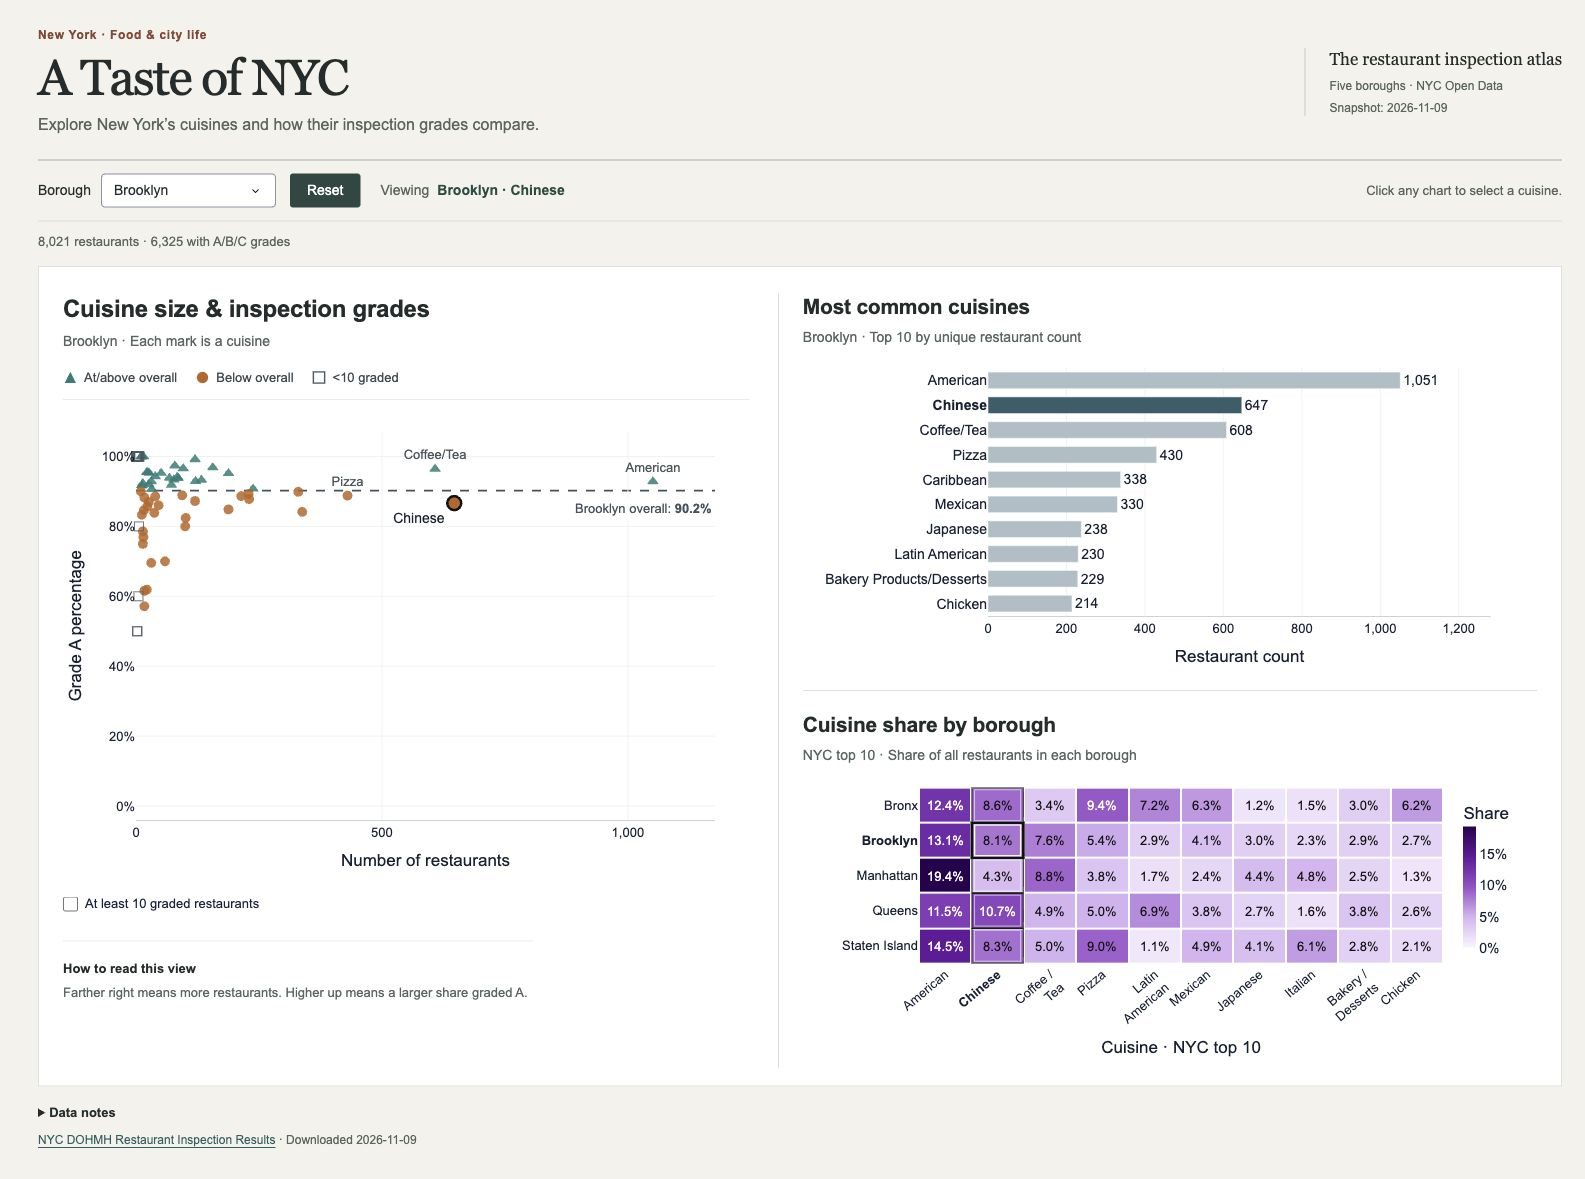
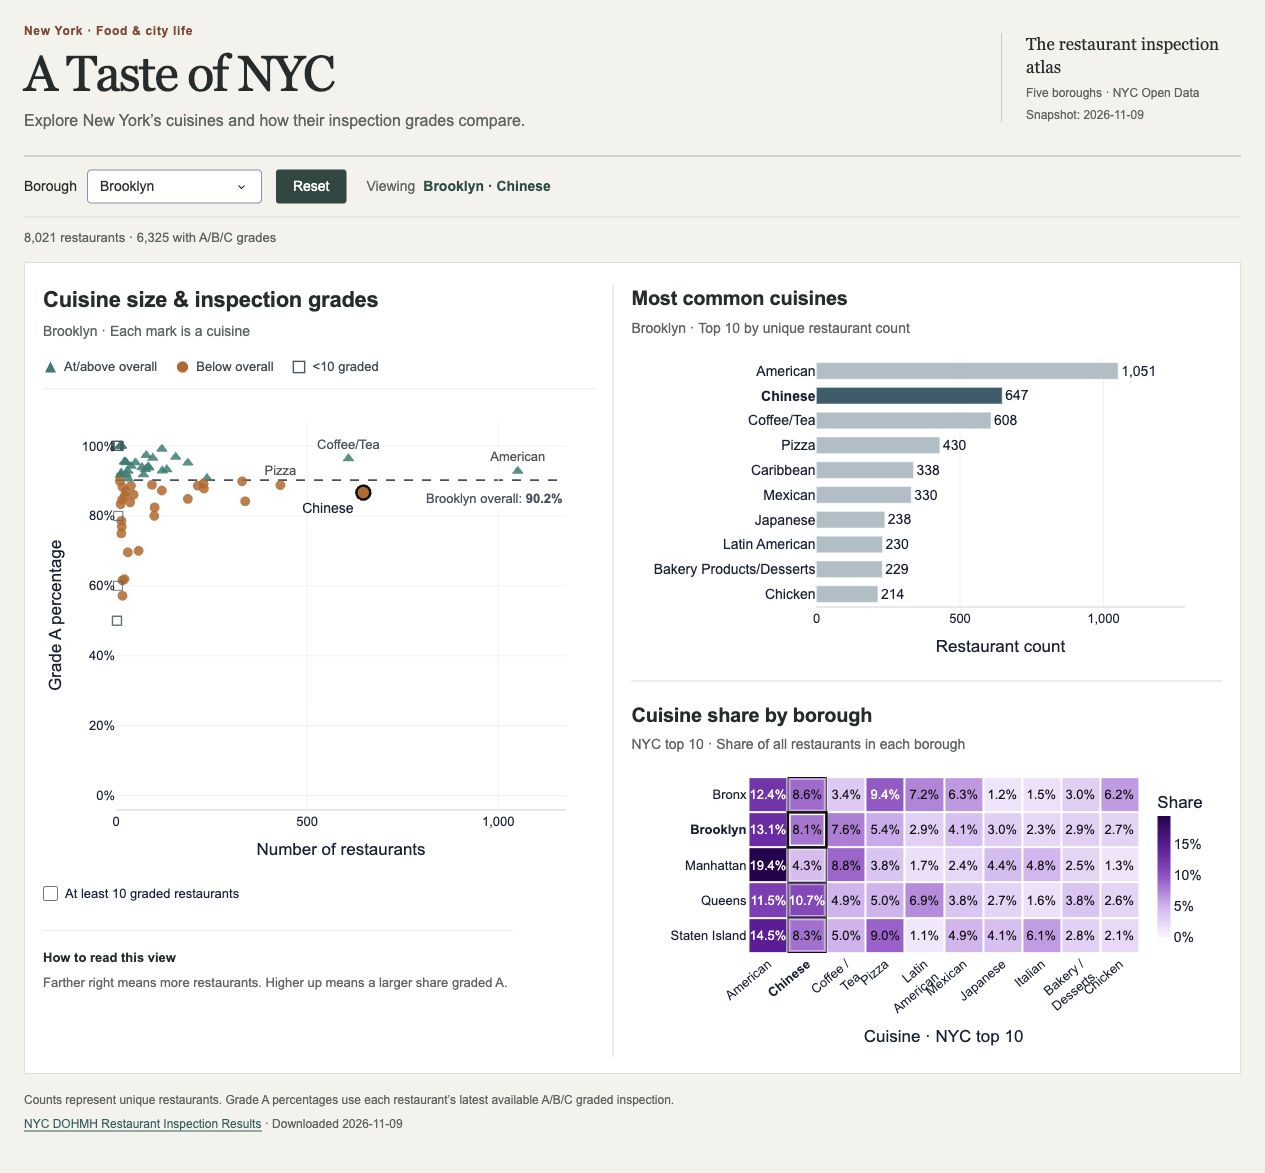
Remove Data notes panel and keep concise footer

diff --git a/a-taste-of-nyc/assets/style.css b/a-taste-of-nyc/assets/style.css
@@ -15,7 +15,7 @@ h1 { font-family: Georgia, serif; font-size: 50px; font-weight: 500; letter-spac
 #borough { width: 175px; font-size: 14px; }
 button { background: #2c4742; color: #fff; border: 1px solid #2c4742; border-radius: 3px; padding: 8px 16px; font-size: 14px; font-weight: 400; cursor: pointer; }
 button:hover { background: #1b342f; }
-button:focus-visible, a:focus-visible, summary:focus-visible { outline: 2px solid var(--accent); outline-offset: 3px; }
+button:focus-visible, a:focus-visible { outline: 2px solid var(--accent); outline-offset: 3px; }
 .selection { display: flex; align-items: baseline; gap: 8px; margin-left: 6px; font-size: 14px; }
 .selection-label { color: var(--muted); }
 .selection strong { color: #204c43; font-weight: 600; }
@@ -36,10 +36,8 @@ h2 { margin: 0; font-size: 21px; line-height: 1.3; font-weight: 600; letter-spac
 .sample-controls input { accent-color: var(--accent); width: 15px; height: 15px; margin: 0; }
 #sample-status { color: var(--muted); font-size: 12px; }
 #sample-status:empty { display: none; }
-.data-notes { padding-top: 16px; font-size: 13px; color: var(--muted); line-height: 1.6; }
-.data-notes summary { cursor: pointer; color: var(--ink); width: fit-content; font-weight: 600; }
-.data-notes p { margin: 8px 0; max-width: 1050px; }
-footer { margin-top: 10px; color: var(--muted); font-size: 12px; }
+footer { margin-top: 16px; line-height: 1.6; color: var(--muted); font-size: 12px; }
+footer p { margin: 0 0 5px; }
 a { color: var(--accent); text-underline-offset: 3px; }
 @media (max-width: 1400px) { .page { padding: 24px; } .hint { display: none; } .chart-grid { padding: 22px 18px 16px; gap: 18px; } .right-column { padding-left: 18px; } .scatter-panel h2 { font-size: 22px; } h2 { font-size: 20px; } .edition { max-width: 240px; } }
 @media (max-width: 1150px) { .chart-grid { grid-template-columns: 1fr; gap: 30px; } .right-column { border-left: 0; padding-left: 0; gap: 26px; } .scatter-plot { height: 420px !important; } .reading-note { max-width: none; } }

diff --git a/a-taste-of-nyc/app.py b/a-taste-of-nyc/app.py
@@ -327,19 +327,11 @@ def create_app(frame=None, metadata=None):
                 ], className="panel"),
             ], className="right-column"),
         ], className="chart-grid"),
-        html.Details([
-            html.Summary("Data notes"),
-            html.P(id="missing-note"),
-            html.P("Triangle and circle marks have at least 10 A/B/C-rated restaurants. Hollow squares have 1–9; their exact Grade A rates remain in their vertical positions and tooltips."),
+        html.Footer([
             html.P("Counts represent unique restaurants. Grade A percentages use each restaurant’s latest available A/B/C graded inspection."),
-            html.P("Overall Grade A = all Grade A restaurants / all A/B/C-rated restaurants in the selected scope; it is not an average of cuisine percentages. The reference and both color groups update with the borough."),
-            html.P("Cuisine not recorded is excluded from the cuisine comparisons but included in total counts and heatmap denominators. Heatmap columns are the NYC top 10 recorded cuisines, plus the selected cuisine if needed; all five boroughs and the citywide color scale remain fixed."),
-            html.P(id="scatter-note"),
-            html.P("Small samples may have extreme percentages. Above/below overall is descriptive, not a significance test. The X axis remains linear. A black outline and label identify the selected scatter point without changing its comparison color."),
-            html.P("Source includes active establishments and not-yet-inspected applicants. It is not an all-time census."),
-        ], className="data-notes"),
-        html.Footer([html.A("NYC DOHMH Restaurant Inspection Results", href=SOURCE_URL, target="_blank", rel="noreferrer"),
-                     f" · Downloaded {metadata.get('download_date', 'unknown')}"]),
+            html.A("NYC DOHMH Restaurant Inspection Results", href=SOURCE_URL, target="_blank", rel="noreferrer"),
+            f" · Downloaded {metadata.get('download_date', 'unknown')}",
+        ]),
     ], className="page")
 
     @app.callback(
@@ -347,8 +339,8 @@ def create_app(frame=None, metadata=None):
         Output("heatmap", "clickData"), Output("scatter", "figure"), Output("bar", "figure"),
         Output("selection", "children"), Output("metrics", "children"),
         Output("scatter-scope", "children"), Output("bar-scope", "children"),
-        Output("bar-title", "children"), Output("scatter-note", "children"),
-        Output("heatmap", "figure"), Output("missing-note", "children"),
+        Output("bar-title", "children"),
+        Output("heatmap", "figure"),
         Output("bar", "clickData"), Output("scatter", "clickData"),
         Output("sample-filter", "value"), Output("sample-status", "children"), Output("heatmap-title", "children"),
         Input("borough", "value"), Input("heatmap", "clickData"), Input("reset", "n_clicks"),
@@ -366,10 +358,7 @@ def create_app(frame=None, metadata=None):
         bar, extra = bar_figure(summary, selected, borough)
         rated = int(subset.grade.isin(["A", "B", "C"]).sum())
         metrics = f"{len(subset):,} restaurants · {rated:,} with A/B/C grades"
-        unknown = int(subset.cuisine.eq(MISSING_CUISINE).sum())
-        missing_note = f"Cuisine not recorded: {unknown:,} in {borough}. Included in totals and share denominators; excluded from cuisine comparisons."
         omitted = int((summary.rated.eq(0) & summary.cuisine.ne(MISSING_CUISINE)).sum())
-        note = f"{omitted} recorded cuisine(s) have no valid grade and are not plotted in scatter. Counts still include them. The optional minimum-sample filter affects only scatter visibility, not totals or the overall benchmark."
         hidden = int(((summary.rated > 0) & (summary.rated < minimum) & summary.cuisine.ne(MISSING_CUISINE)).sum())
         sample_status = f"{hidden} cuisines hidden by sample filter" if minimum > 1 else ""
         if omitted:
@@ -377,10 +366,8 @@ def create_app(frame=None, metadata=None):
         if selected:
             row = summary[summary.cuisine.eq(selected)]
             if row.empty:
-                note = f"{selected}: 0 restaurants; Grade A: no data. " + note
                 sample_status += (" · " if sample_status else "") + f"{selected}: no restaurants in this borough"
             elif int(row.iloc[0].rated) == 0:
-                note = f"{selected}: Grade A unavailable (0 rated restaurants). " + note
                 sample_status += (" · " if sample_status else "") + f"{selected}: no valid grade"
             elif int(row.iloc[0].rated) < minimum:
                 sample_status += f" · {selected} is hidden ({int(row.iloc[0].rated)} graded); turn off the filter to see it"
@@ -388,8 +375,8 @@ def create_app(frame=None, metadata=None):
                 f"{borough} · {selected or 'All cuisines'}", metrics,
                 f"{borough} · Each mark is a cuisine",
                 f"{borough} · Top 10 by unique restaurant count",
-                "Most common cuisines" + (" · + selected" if extra else ""), note,
-                heatmap_figure(frame, borough, selected)[0], missing_note,
+                "Most common cuisines" + (" · + selected" if extra else ""),
+                heatmap_figure(frame, borough, selected)[0],
                 None, None, sample_filter, sample_status,
                 "Cuisine share by borough" + (" · + selected" if selected and selected not in heat_cuisines else ""))
 

diff --git a/a-taste-of-nyc/check_browser.py b/a-taste-of-nyc/check_browser.py
@@ -59,7 +59,6 @@ def run():
         page.wait_for_function("""() => document.querySelector('#scatter .js-plotly-plot').data.some(t => t.text?.includes('Chinese') && t.marker.line.color === '#111111')""")
         assert page.locator("#bar .js-plotly-plot").evaluate("g => g.data[0].marker.color.includes('#355e6a')")
         assert page.locator("#heatmap .js-plotly-plot").evaluate("g => g.layout.shapes.length === 10")
-        expect(page.locator("#missing-note")).to_contain_text("992")
         expect(page.locator("#scatter")).to_contain_text("Brooklyn overall: 90.2%")
         selected = page.locator("#scatter .scatterlayer .trace").last.locator(".point").first
         bounds = selected.bounding_box()

diff --git a/a-taste-of-nyc/README.md b/a-taste-of-nyc/README.md
@@ -70,7 +70,7 @@ The November 9 snapshot was checked directly against every available source row 
 - **3,922 unique restaurants** have no recorded cuisine, including **992 in Brooklyn**.
 - These IDs have **4,000 source rows**. **Zero** of those restaurant IDs have any nonblank cuisine in any available inspection record. The missing values were not introduced by mapping or the grade join, and there is no usable older cuisine to recover.
 - None has a valid A/B/C grade. **3,920 source rows** carry the source's `1900-01-01` not-yet-inspected marker; this count is rows, not restaurants.
-- They remain in total restaurant counts and heatmap denominators, but are excluded from cuisine comparisons and Top 10 selection. An expandable Data notes section states their count for the current borough and the denominator policy. The cleaned data is retained intact.
+- They remain in total restaurant counts and heatmap denominators, but are excluded from cuisine comparisons and Top 10 selection. The missing-cuisine counts and denominator policy are documented here; the page keeps only a short metric definition in its footer. The cleaned data is retained intact.
 
 The saved audit is [data/cuisine_missingness_audit.json](data/cuisine_missingness_audit.json). `test_missing_cuisine_really_missing_in_all_source_records` repeats the key raw-source check. Brooklyn's reference rate is **5,707 Grade A / 6,325 A/B/C-rated = 90.229249…%**, displayed as **90.2%**. It is not the unweighted average of cuisine rates.
 
@@ -93,7 +93,7 @@ The saved audit is [data/cuisine_missingness_audit.json](data/cuisine_missingnes
 
 These refinements retain Option B and the original chart types and axes. The added reference line and binary comparison colors strengthen RQ3. No logarithmic axis or arbitrary cuisine palette was introduced. The selected scatter point is labeled, with up to three common cuisines labeled where approximate text-box checks find room. The chart numbering was removed; the original research-question mapping remains RQ3 / RQ1 / RQ2.
 
-The editorial revision uses a warm off-white page, a 50 px serif desktop title (40 px on phones), and a single white canvas containing all three charts. Chart titles are 21–24 px on wide screens, scope subtitles 14 px, and plot labels 13–15 px. A small subject line and source/snapshot block frame the heading; dark green controls and selection text establish hierarchy without separate KPI cards. Thin separators organize the views. The scatter legend contains exactly one triangle, circle and hollow square. The sample filter and a short reading guide sit below scatter, and detailed methodology is expandable. Heatmap labels retain their 40° angle. The full heatmap and its color scale fit the checked 1280 px laptop layout; below 700 px the heatmap scrolls within its own panel. Data and selection behavior are unchanged. The revised layout was inspected at 1600, 1280 and 390 px widths.
+The editorial revision uses a warm off-white page, a 50 px serif desktop title (40 px on phones), and a single white canvas containing all three charts. Chart titles are 21–24 px on wide screens, scope subtitles 14 px, and plot labels 13–15 px. A small subject line and source/snapshot block frame the heading; dark green controls and selection text establish hierarchy without separate KPI cards. Thin separators organize the views. The scatter legend contains exactly one triangle, circle and hollow square. The sample filter and a short reading guide sit below scatter, and detailed methodology is kept in this README. Heatmap labels retain their 40° angle. The full heatmap and its color scale fit the checked 1280 px laptop layout; below 700 px the heatmap scrolls within its own panel. Data and selection behavior are unchanged. The revised layout was inspected at 1600, 1280 and 390 px widths.
 
 Design references inspected for this revision: [The Pudding’s restaurant story](https://pudding.cool/2018/02/restaurants/), [Our World in Data’s scatter explorer](https://ourworldindata.org/grapher/life-expectancy-vs-gdp-per-capita?time=2020), and [Datawrapper scatter examples](https://www.datawrapper.de/docs/examples-of-datawrapper-scatter-plots). These informed the simpler typography, quieter controls and direct chart annotations. The implementation is original; no site assets were copied.
 
